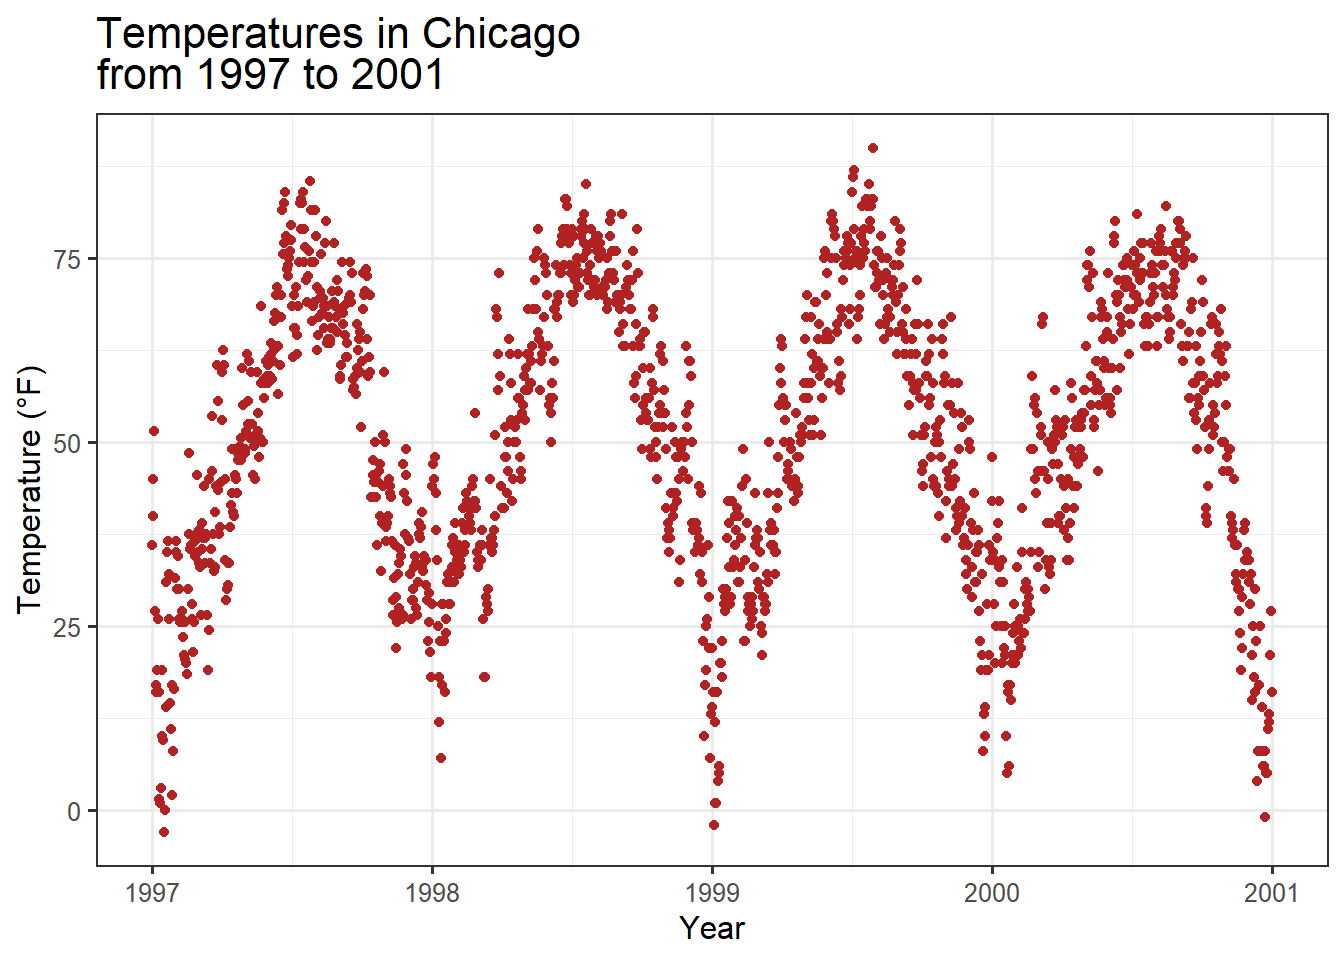
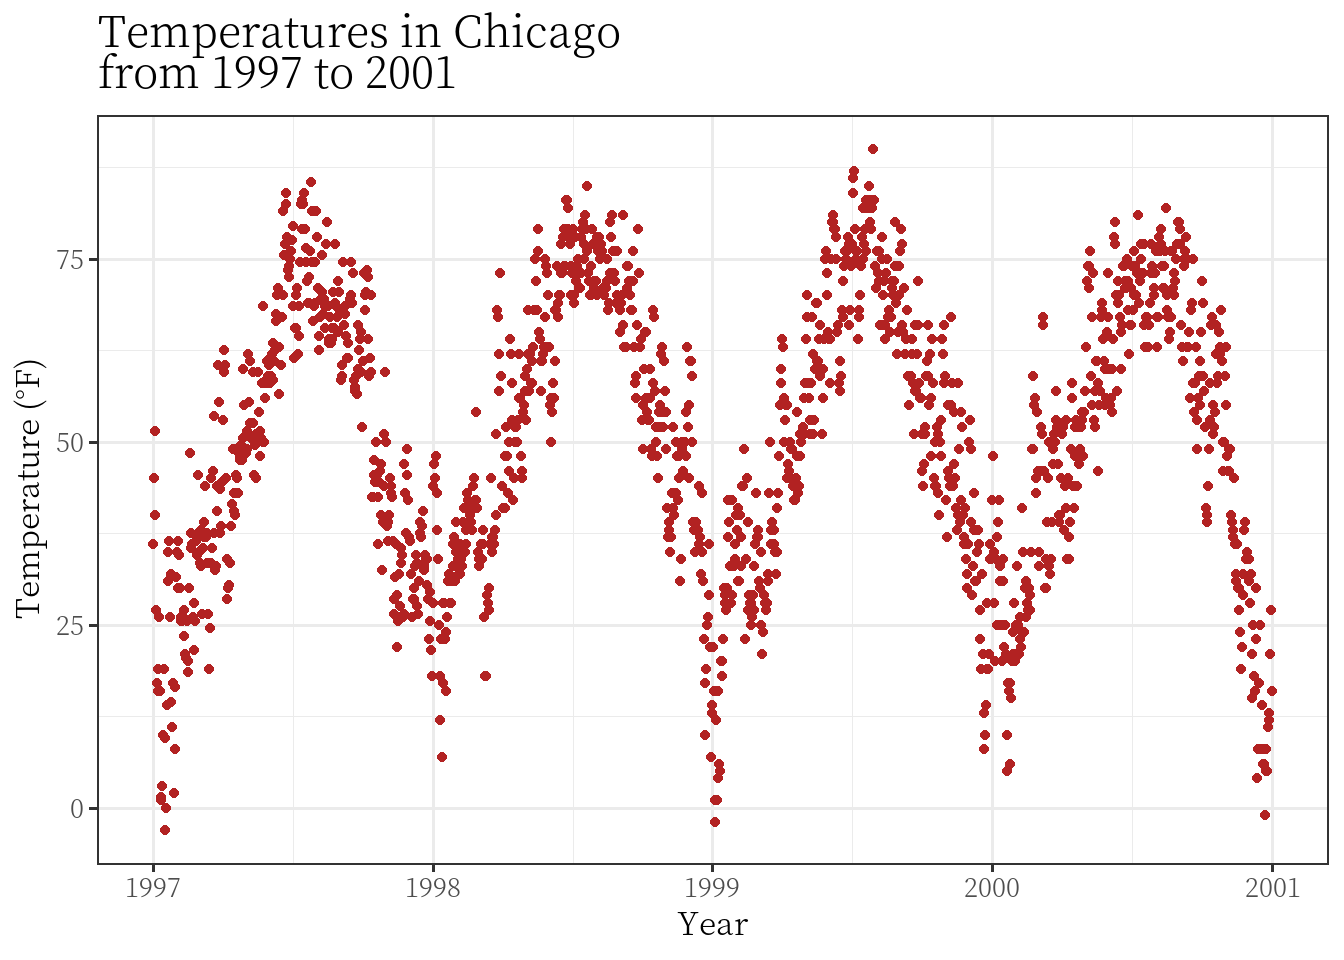
ggplot11

diff --git a/content/ProgramR/R语言绘图系列（三）——ggolot绘图1——如何用ggplot2绘制漂亮的统计图形.html b/content/ProgramR/R语言绘图系列（三）——ggolot绘图1——如何用ggplot2绘制漂亮的统计图形.html
@@ -374,7 +374,7 @@ ggplot(chic_high, aes(x = temp, y = o3)) +
   labs(x = &quot;Temperature (°F)&quot;, y = &quot;Temperature (°F) + random noise&quot;) +
   xlim(c(0, 100)) + ylim(c(0, 150)) +
   coord_fixed()</code></pre>
-<pre><code>## Warning: Removed 50 rows containing missing values (geom_point).</code></pre>
+<pre><code>## Warning: Removed 49 rows containing missing values (geom_point).</code></pre>
 <p><img src="/ProgramR/R语言绘图系列（三）——ggolot绘图1——如何用ggplot2绘制漂亮的统计图形_files/figure-html/unnamed-chunk-31-1.png" width="672" /></p>
 <p>x 轴上的 0-50 与 y 轴的 0-50 长度是相同的，拥有相同的比例。</p>
 <p>而 ratio 大于 1 时 y 轴上的单位比 x 轴上的单位长，反之则短。</p>
@@ -383,7 +383,7 @@ ggplot(chic_high, aes(x = temp, y = o3)) +
   labs(x = &quot;Temperature (°F)&quot;, y = &quot;Temperature (°F) + random noise&quot;) +
   xlim(c(0, 100)) + ylim(c(0, 150)) +
   coord_fixed(ratio = 1/5)</code></pre>
-<pre><code>## Warning: Removed 49 rows containing missing values (geom_point).</code></pre>
+<pre><code>## Warning: Removed 54 rows containing missing values (geom_point).</code></pre>
 <p><img src="/ProgramR/R语言绘图系列（三）——ggolot绘图1——如何用ggplot2绘制漂亮的统计图形_files/figure-html/unnamed-chunk-32-1.png" width="672" /></p>
 </div>
 <div id="使用函数来改变标签" class="section level2">
@@ -477,56 +477,17 @@ ggplot(chic, aes(x = date, y = temp)) +
 <p>你也可以为所有的文本元素设置非默认字体，下面将 Roboto Condensed 字体设置作为所有图形的默认字体：</p>
 <pre class="r"><code>library(showtext)
 font_add(&quot;SourceHanSerifCN-Light&quot;, &quot;SourceHanSerifCN-Light.otf&quot;)
-theme_set(theme_bw(base_size = 12, base_family = &quot;Roboto Condensed&quot;))</code></pre>
-<p>##　改变多行文本之间的空间(间距)　　</p>
+theme_set(theme_bw(base_size = 12, base_family = &quot;SourceHanSerifCN-Light&quot;))</code></pre>
+</div>
+<div id="改变多行文本之间的空间间距" class="section level2">
+<h2>改变多行文本之间的空间(间距)　　</h2>
 <p>当标题有多行文本的时候，使用 lineheight 参数可以改变行距：</p>
 <pre class="r"><code>ggplot(chic, aes(x = date, y = temp)) +
   geom_point(color = &quot;firebrick&quot;) +
   labs(x = &quot;Year&quot;, y = &quot;Temperature (°F)&quot;) +
   ggtitle(&quot;Temperatures in Chicago\nfrom 1997 to 2001&quot;) +
   theme(plot.title = element_text(lineheight = .8, size = 16))</code></pre>
-<pre><code>## Warning in grid.Call(C_stringMetric, as.graphicsAnnot(x$label)): Windows字体数据
-## 库里没有这样的字体系列
-
-## Warning in grid.Call(C_stringMetric, as.graphicsAnnot(x$label)): Windows字体数据
-## 库里没有这样的字体系列
-
-## Warning in grid.Call(C_stringMetric, as.graphicsAnnot(x$label)): Windows字体数据
-## 库里没有这样的字体系列</code></pre>
-<pre><code>## Warning in grid.Call(C_textBounds, as.graphicsAnnot(x$label), x$x, x$y, :
-## Windows字体数据库里没有这样的字体系列
-
-## Warning in grid.Call(C_textBounds, as.graphicsAnnot(x$label), x$x, x$y, :
-## Windows字体数据库里没有这样的字体系列
-
-## Warning in grid.Call(C_textBounds, as.graphicsAnnot(x$label), x$x, x$y, :
-## Windows字体数据库里没有这样的字体系列
-
-## Warning in grid.Call(C_textBounds, as.graphicsAnnot(x$label), x$x, x$y, :
-## Windows字体数据库里没有这样的字体系列
-
-## Warning in grid.Call(C_textBounds, as.graphicsAnnot(x$label), x$x, x$y, :
-## Windows字体数据库里没有这样的字体系列
-
-## Warning in grid.Call(C_textBounds, as.graphicsAnnot(x$label), x$x, x$y, :
-## Windows字体数据库里没有这样的字体系列
-
-## Warning in grid.Call(C_textBounds, as.graphicsAnnot(x$label), x$x, x$y, :
-## Windows字体数据库里没有这样的字体系列
-
-## Warning in grid.Call(C_textBounds, as.graphicsAnnot(x$label), x$x, x$y, :
-## Windows字体数据库里没有这样的字体系列
-
-## Warning in grid.Call(C_textBounds, as.graphicsAnnot(x$label), x$x, x$y, :
-## Windows字体数据库里没有这样的字体系列
-
-## Warning in grid.Call(C_textBounds, as.graphicsAnnot(x$label), x$x, x$y, :
-## Windows字体数据库里没有这样的字体系列</code></pre>
-<pre><code>## Warning in grid.Call.graphics(C_text, as.graphicsAnnot(x$label), x$x, x$y, :
-## Windows字体数据库里没有这样的字体系列</code></pre>
-<pre><code>## Warning in grid.Call(C_textBounds, as.graphicsAnnot(x$label), x$x, x$y, :
-## Windows字体数据库里没有这样的字体系列</code></pre>
-<p><img src="/ProgramR/R语言绘图系列（三）——ggolot绘图1——如何用ggplot2绘制漂亮的统计图形_files/figure-html/unnamed-chunk-42-1.png" width="672" /></p>
+<p><img src="/ProgramR/R语言绘图系列（三）——ggolot绘图1——如何用ggplot2绘制漂亮的统计图形_files/figure-html/unnamed-chunk-42-1.png" width="672" style="display: block; margin: auto;" /></p>
 <p>本期完整代码及示例数据下载：
 <a href="https://osf.io/3kbw5/" class="uri">https://osf.io/3kbw5/</a></p>
 <p>最后，我们诚挚地邀请对ggplot2或R语言绘图感兴趣的同学可以加入我们，共同完成后续内容的整理。如有意向，可以联系统计联盟小助手微信：<a href="mailto:Hpa201904或者邮箱uunotebook@163.com" class="email">Hpa201904或者邮箱uunotebook@163.com</a>。</p>
